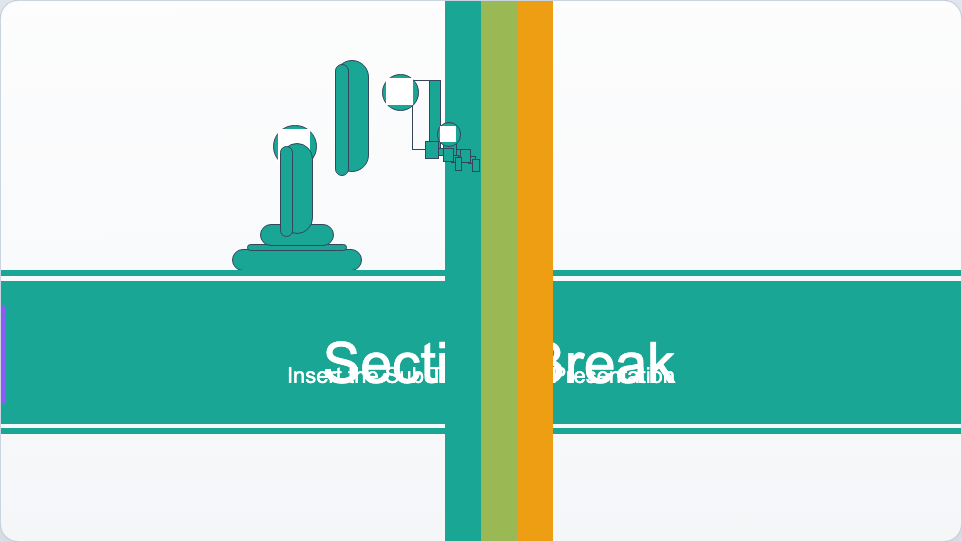
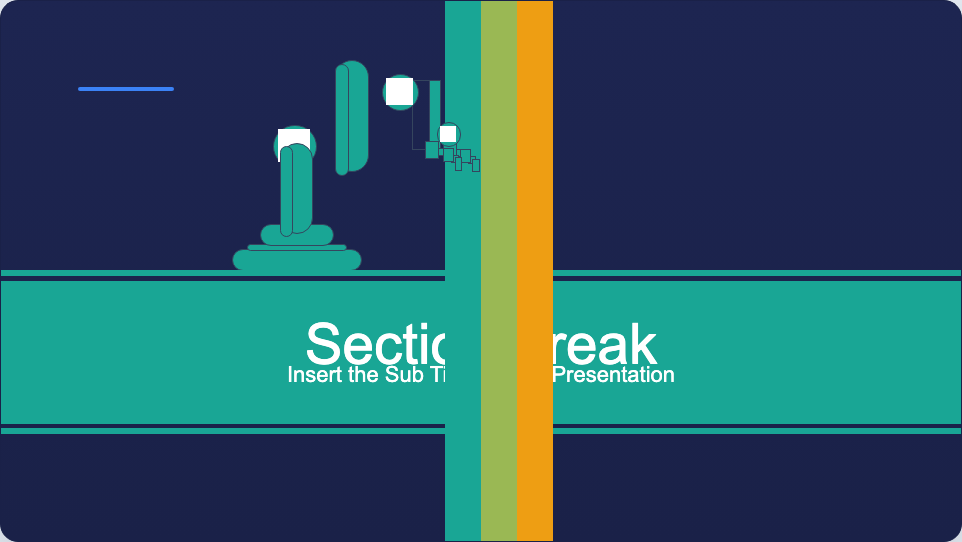
Restore title-slide classification after the scene graph grew more faithful
Once layout and decorative shapes started flowing through the PPTX scene graph,
slides that were structurally title pages stopped matching the viewer's old
"few shapes means title slide" heuristic. That regression crushed sample1's
opening-slide fidelity because decorative geometry pushed the preview back into
content-slide styling. This stage reclassifies title slides using only text-
bearing shapes and refreshes the screenshot evidence so the corpus report again
reflects the intended hero-slide treatment.

Constraint: Title-slide detection must tolerate decorative/non-text scene layers once layout/master shapes are included in the parser output
Constraint: Screenshot artifacts must be regenerated immediately after heuristic changes so the corpus score report stays meaningful
Rejected: Keep counting every decorative shape in title-slide detection | rich title templates would keep regressing as parser fidelity improves
Rejected: Freeze the title-slide heuristic and postpone evidence refresh | the screenshot report would keep overstating the regression
Confidence: medium
Scope-risk: narrow
Reversibility: clean
Directive: Base slide archetype detection on text-bearing semantics, not raw shape counts, as the PPTX scene graph becomes richer
Tested: npm run build --workspace @ooxml/example-basic; npm run quality:ppt-sample-screenshots; sample score check (sample1 slide1 81.56, slide2 81.97, slide10 83.25)
[…]

diff --git a/examples/basic/src/main.ts b/examples/basic/src/main.ts
@@ -564,7 +564,13 @@ function enhancePresentationPreview(): void {
   }
 
   const accentPalette = ['#3b82f6', '#8b5cf6', '#10b981', '#f59e0b', '#ef4444'];
-  const titleLike = shapes.every((shape) => !shape.dataset.mediaType) && shapes.length <= 4;
+  const textBearingShapes = shapes.filter((shape) => {
+    const text = shape.querySelector('p')?.textContent?.trim() ?? '';
+    return text.length > 0;
+  });
+  const titleLike = textBearingShapes.length > 0
+    && textBearingShapes.length <= 4
+    && textBearingShapes.every((shape) => !shape.dataset.mediaType);
   const darkBackground = backgroundColor ? isDarkColor(backgroundColor) : true;
   canvas.classList.toggle('is-title-slide', titleLike && darkBackground);
   canvas.classList.toggle('is-title-slide-light', titleLike && !darkBackground);
